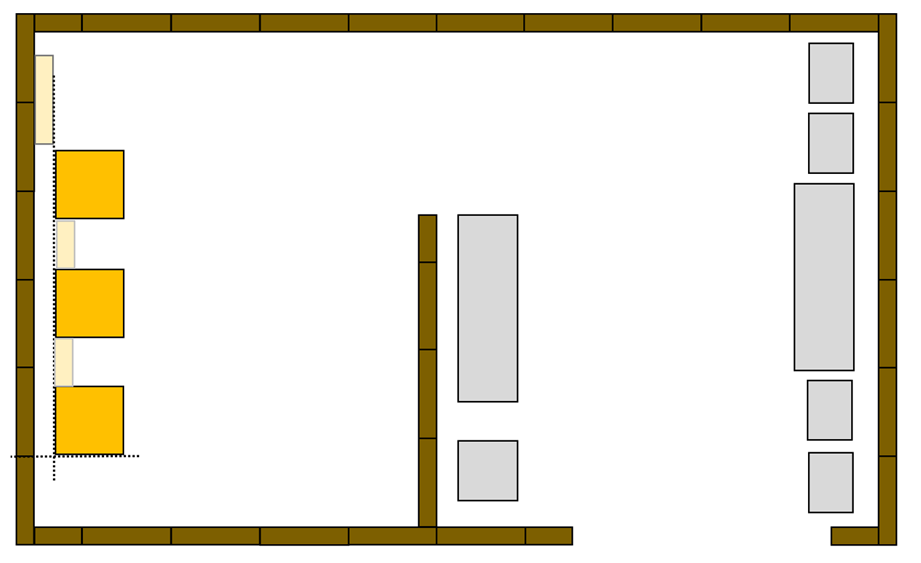
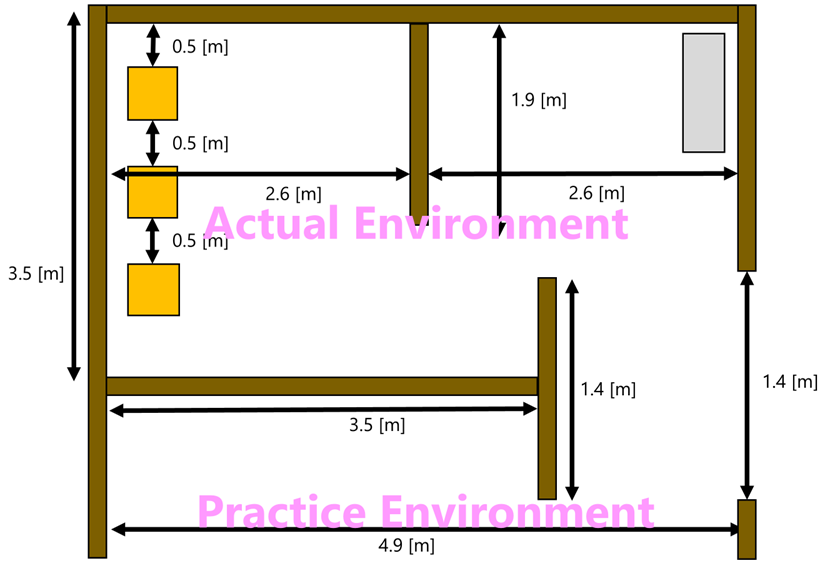
Published setup day of brg

diff --git a/rules/EDU/rc_en.md b/rules/EDU/rc_en.md
@@ -24,7 +24,7 @@ System Integration, Human-Robot Interaction, Person Detection, Person Recognitio
 - Host
   - The host's name is Max.
   - His favorite drink is Wine.
-  - The initial location of the host will be announced on the setup date.
+  - The initial positions of the hosts are indicated by ● mark in the above figure, respectively, in Trial 1/2.
 - Guest
   - Each of the two guests is assigned a name and a favorite beverage.
   - Guests are guided into the room by the robot and introduced.
@@ -87,7 +87,21 @@ The competition will be held without a door.
 
 ## List of Features
 
-We will recruit and confirm in the Discord channel. [TODO]
+
+The “feature list” available shall be the following 10.
+
+- Gender  >>  Male or Female
+- Clothing color (Tops)  >>  ※
+- Pants color  >>  ※
+- Hair color  >>  ※
+- Length of sleeves  >>  long or short
+- Height  >>  ±10cm
+- Age  >>  ±7 years old
+- Wears Glasses  >>  Yes or No
+- Wears Cap/Hat >>  Yes or No
+- Wears Mask >>  Yes or No
+
+※To be determined by the scorer.
 
 <br>
 

diff --git a/rules/EDU/rc_jp.md b/rules/EDU/rc_jp.md
@@ -24,7 +24,7 @@
 - ホスト
   - 名前はMax
   - 好きな飲み物はWine
-  - ホストの初期位置は，セットアップ日に発表される
+  - ホストの初期位置は，トライアル1/2で上図の●印の位置とする
 - ゲスト
   - 2人のゲストにはそれぞれ名前と好きな飲み物が設定されている
   - ゲストはロボットに部屋の中へ案内され紹介される
@@ -87,7 +87,20 @@
 
 ## 使用する特徴について
 
-Discordのチャンネル内で募集し確定する．[TODO]
+使用できる特徴リストは以下の10つとする．
+
+- 性別  >>  男 or 女
+- 服の色(トップ)  >>  ※
+- 服の色(ズボン)  >>  ※
+- 髪の色  >>  ※
+- 袖の長さ  >>  長 or 短
+- 身長  >>  ±10cm
+- 年齢  >>  ±7歳
+- 眼鏡  >>  有 or 無
+- 帽子 >>  有 or 無
+- マスク >>  有 or 無
+
+※採点者によって決定すること
 
 <br>
 
